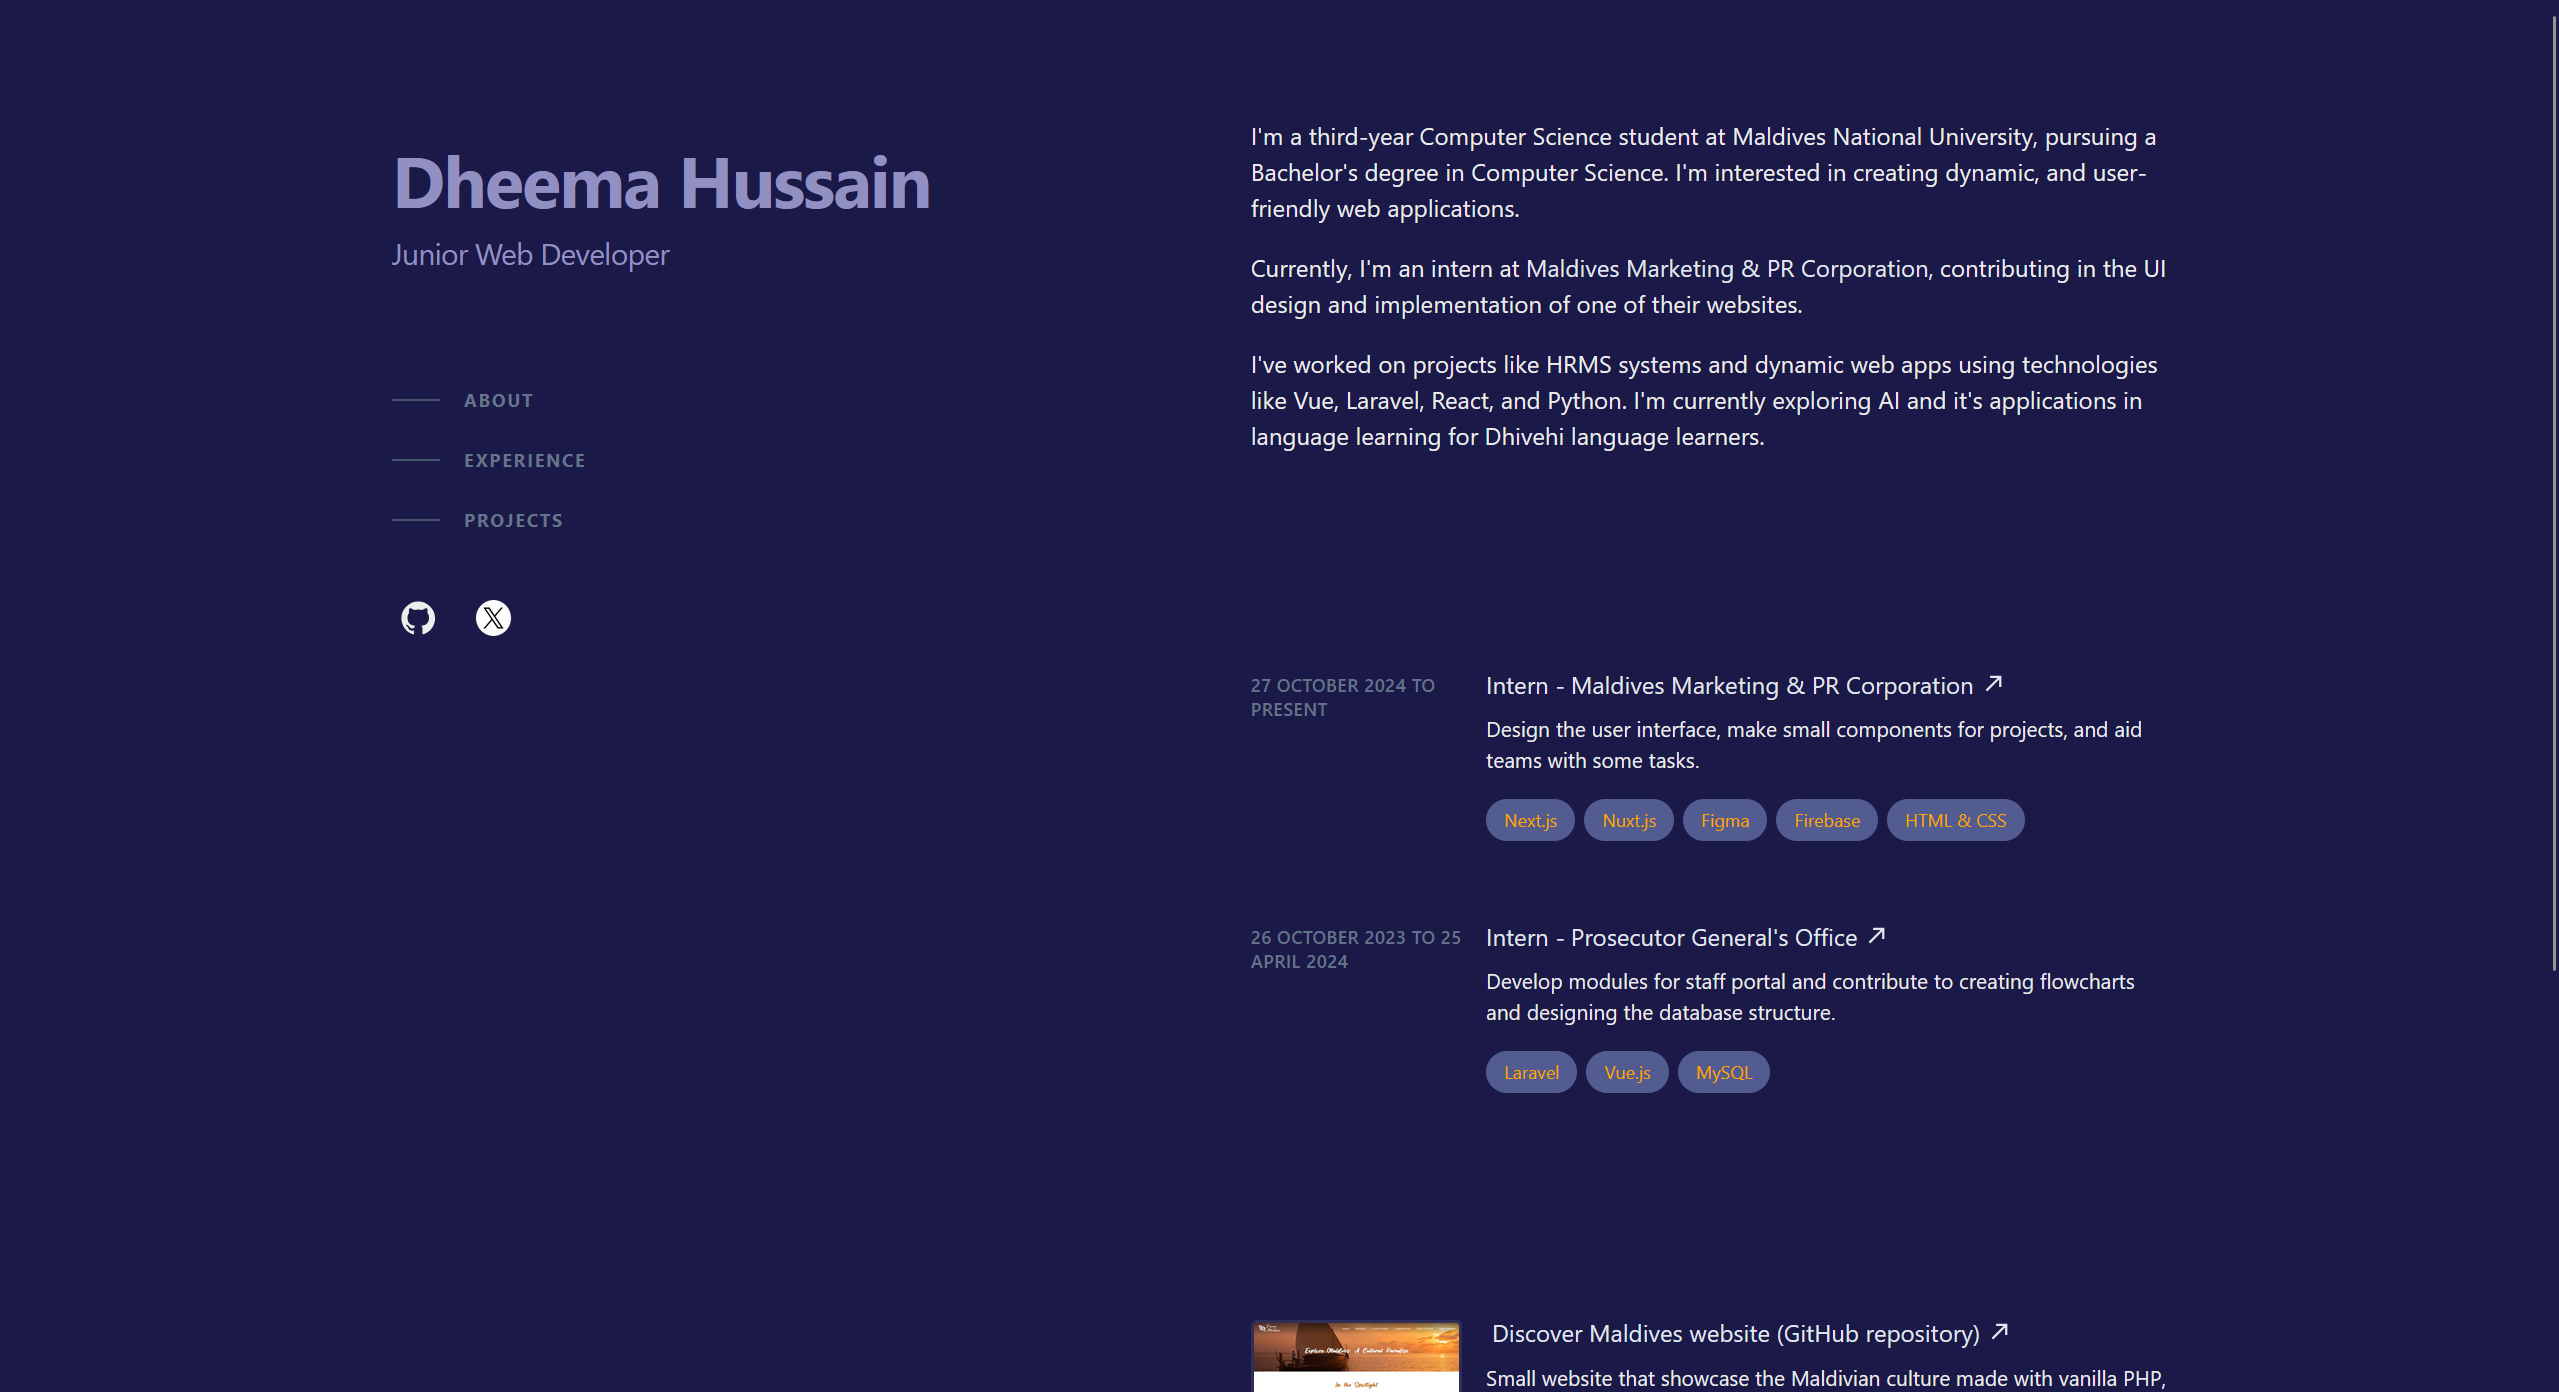
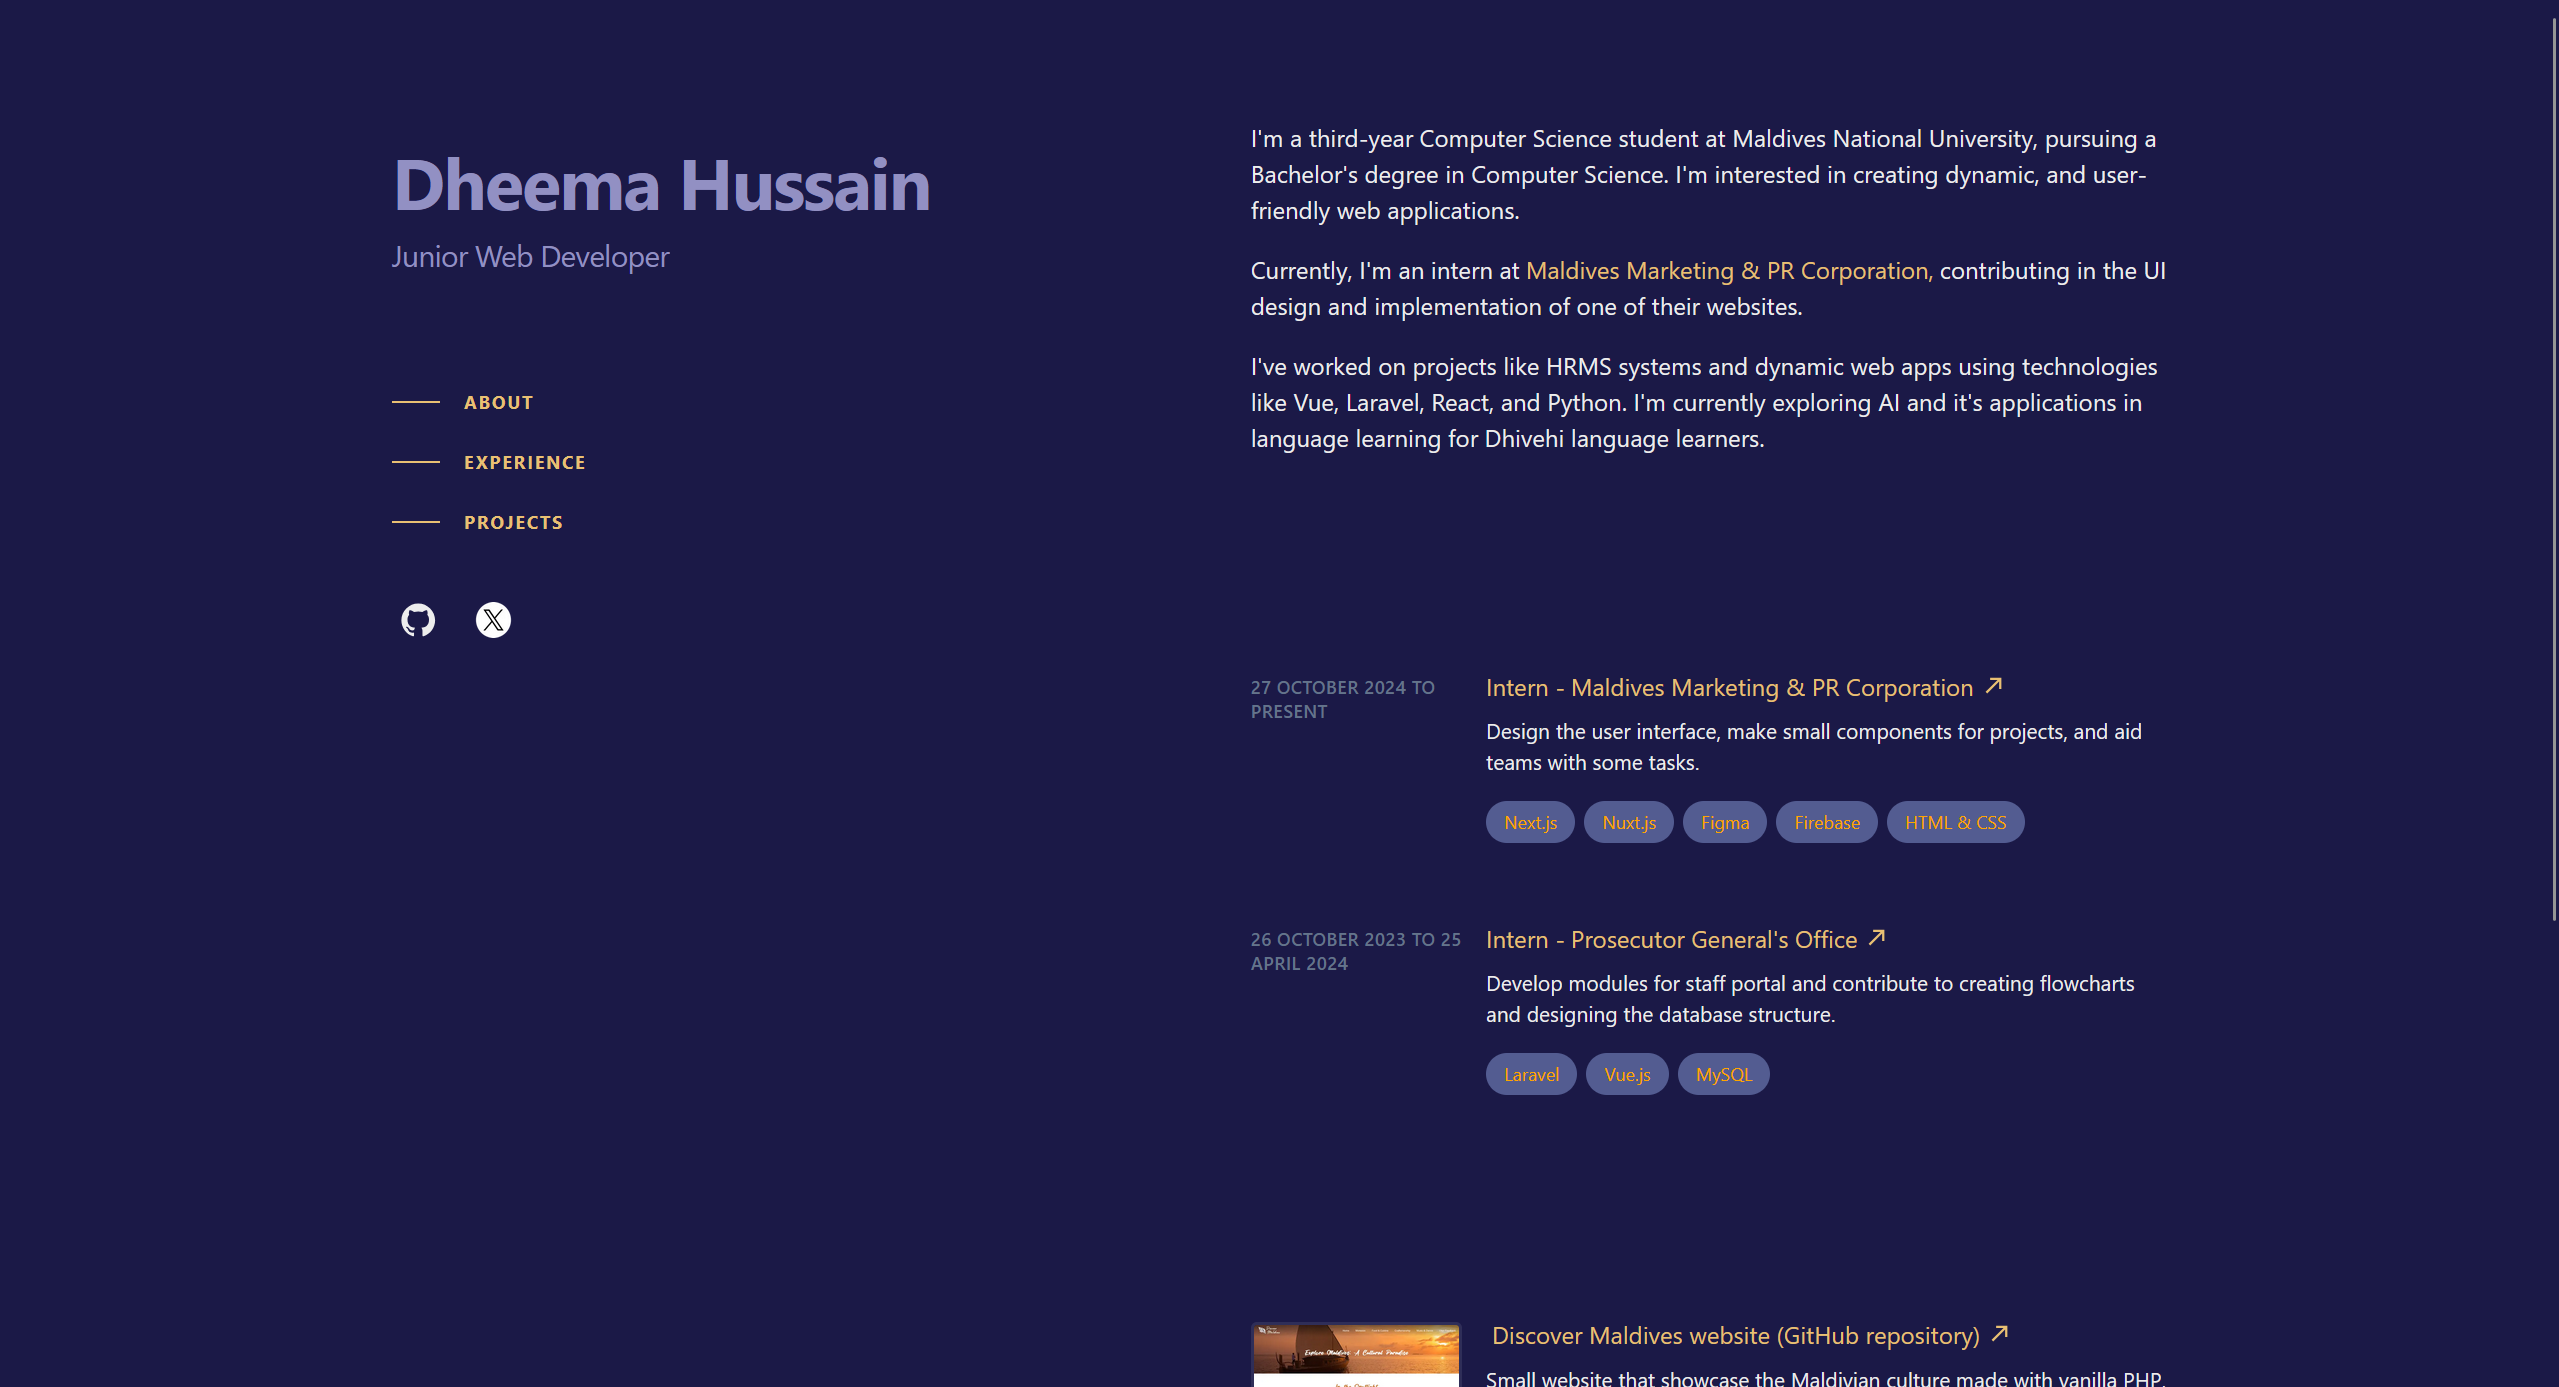
edit css

diff --git a/src/app/components/Main.tsx b/src/app/components/Main.tsx
@@ -16,7 +16,7 @@ const Main = () => {
                     </p>
                     <p className='mb-4'>
                         Currently, I&apos;m an intern at
-                        <a className='font-medium text-slate-200 hover:text-[#FFA500] focus-visible:text-[#FFA500] ml-1 mr-1' href="https://corporate.visitmaldives.com/" target='_blank' rel='noreferrer noopener'>
+                        <a className='font-medium text-[#e9c073] hover:text-[#FFA500] focus-visible:text-[#FFA500] ml-1 mr-1' href="https://corporate.visitmaldives.com/" target='_blank' rel='noreferrer noopener'>
                             Maldives Marketing & PR Corporation,
                         </a>
                         contributing in the UI design and implementation of one of their websites.
@@ -37,7 +37,7 @@ const Main = () => {
                             <header className='z-10 mb-2 mt-1 text-xs font-semibold uppercase tracking-wide text-slate-500 sm:col-span-2' aria-label='2024 to present'> 27 October 2024 to Present</header>
                             <div className='z-10 sm:col-span-6'>
                                 <h3 className='font-medium leading-snug text-slate-200'>
-                                    <a className='inline-flex items-center font-medium leading-tight text-slate-200 hover:text-[#FFA500] focus-visible:text-[#FFA500]  group/link text-base' href="https://corporate.visitmaldives.com/" target='_blank' rel='noreferrer noopener' aria-label='Intern, MMPRC'>
+                                    <a className='inline-flex items-center font-medium leading-tight text-[#e9c073] hover:text-[#FFA500] focus-visible:text-[#FFA500]  group/link text-base' href="https://corporate.visitmaldives.com/" target='_blank' rel='noreferrer noopener' aria-label='Intern, MMPRC'>
                                         Intern -
                                         <span className="ml-1">Maldives Marketing & PR Corporation</span>
                                         <Icon path={mdiArrowTopRight} size={0.75} className='ml-1' />
@@ -82,7 +82,7 @@ const Main = () => {
                             <header className='z-10 mb-2 mt-1 text-xs font-semibold uppercase tracking-wide text-slate-500 sm:col-span-2' aria-label='2024 to present'> 26 October 2023 to 25 April 2024</header>
                             <div className='z-10 sm:col-span-6'>
                                 <h3 className='font-medium leading-snug text-slate-200'>
-                                    <a className='inline-flex items-center font-medium leading-tight text-slate-200 hover:text-[#FFA500] focus-visible:text-[#FFA500]  group/link text-base' href="https://pgoffice.gov.mv/" target='_blank' rel='noreferrer noopener' aria-label='Intern, Prosecutor Generals Office'>
+                                    <a className='inline-flex items-center font-medium leading-tight text-[#e9c073] hover:text-[#FFA500] focus-visible:text-[#FFA500]  group/link text-base' href="https://pgoffice.gov.mv/" target='_blank' rel='noreferrer noopener' aria-label='Intern, Prosecutor Generals Office'>
                                         Intern -
                                         <span className="ml-1">Prosecutor General&apos;s Office</span>
                                         <Icon path={mdiArrowTopRight} size={0.75} className='ml-1' />
@@ -120,7 +120,7 @@ const Main = () => {
                     </li> */}
                 </ol>
             </section>
-            <section id='projects' className='mb-8 scroll-mt-16 md:mb-24 lg:mb-36 lg:scroll-mt-24' aria-label='Selected projects'>
+            <section id='projects' className='mb-8 scroll-mt-16 md:mb-24 lg:mb-24 lg:scroll-mt-24' aria-label='Selected projects'>
                 <div className='sticky top-0 z-20 -mx-6 mb-4 w-screen bg-[#1b1947] px-6 py-5 backdrop-blur md:-mx-12 md:px-12 lg:sr-only lg:relative lg:top-auto lg:mx-auto lg:w-full lg:px-0 lg:py-0 lg:opacity-0'>
                     <h2 className='text-sm font-bold uppercase tracking-widest text-slate-200 lg:sr-only'>Projects</h2>
                 </div>
@@ -130,7 +130,7 @@ const Main = () => {
                             <div className='absolute -inset-x-4 -inset-y-4 z-0 hidden rounded-md transition motion-reduce:transition-none lg:-inset-x-6 lg:block lg:group-hover:bg-slate-800/50 lg:group-hover:shadow-[inset_0_1px_0_0_rgba(148,163,184,0.1)] lg:group-hover:drop-shadow-lg'></div>
                             <div className='z-10 sm:order-2 sm:col-span-6'>
                                 <h3>
-                                    <a className='inline-flex items-center font-medium leading-tight text-slate-200 hover:text-[#FFA500] focus-visible:text-[#FFA500]  group/link text-base' href="https://github.com/dhymaaaa/Discover-Maldives" target='_blank' rel='noreferrer noopener' aria-label='Discover Maldives website'>
+                                    <a className='inline-flex items-center font-medium leading-tight text-[#e9c073] hover:text-[#FFA500] focus-visible:text-[#FFA500]  group/link text-base' href="https://github.com/dhymaaaa/Discover-Maldives" target='_blank' rel='noreferrer noopener' aria-label='Discover Maldives website'>
                                         <span className="ml-1">Discover Maldives website (GitHub repository)</span>
                                         <Icon path={mdiArrowTopRight} size={0.75} className='ml-1' />
                                     </a>
@@ -166,7 +166,7 @@ const Main = () => {
                             <div className='absolute -inset-x-4 -inset-y-4 z-0 hidden rounded-md transition motion-reduce:transition-none lg:-inset-x-6 lg:block lg:group-hover:bg-slate-800/50 lg:group-hover:shadow-[inset_0_1px_0_0_rgba(148,163,184,0.1)] lg:group-hover:drop-shadow-lg'></div>
                             <div className='z-10 sm:order-2 sm:col-span-6'>
                                 <h3>
-                                    <a className='inline-flex items-center font-medium leading-tight text-slate-200 hover:text-[#FFA500] focus-visible:text-[#FFA500]  group/link text-base' href="https://github.com/dhymaaaa/codefolio" target='_blank' rel='noreferrer noopener' aria-label='Discover Maldives website'>
+                                    <a className='inline-flex items-center font-medium leading-tight text-[#e9c073] hover:text-[#FFA500] focus-visible:text-[#FFA500]  group/link text-base' href="https://github.com/dhymaaaa/codefolio" target='_blank' rel='noreferrer noopener' aria-label='Discover Maldives website'>
                                         <span className="ml-1">My coding portfolio (Codefolio)</span>
                                         <Icon path={mdiArrowTopRight} size={0.75} className='ml-1' />
                                     </a>
@@ -192,6 +192,14 @@ const Main = () => {
                     </li>
                 </ul>
             </section>
+            <footer className='max-w-md pb-16 mb-25 text-sm text-slate-500 sm:pb-0'>
+                <p>Code done by me in Visual Studio Code using
+                    <a className='font-light text-[#e9c073] hover:text-[#FFA500] focus-visible:text-[#FFA500] ml-1 mr-1' href="https://brittanychiang.com/" target='_blank' rel='noreferrer noopener'>
+                        Brittany Chiang&apos;s portfolio UI
+                    </a>
+                    as a reference.
+                </p>
+            </footer>
         </main>
     )
 }

diff --git a/src/app/components/Header.tsx b/src/app/components/Header.tsx
@@ -2,8 +2,6 @@ import React from 'react'
 import Icon from '@mdi/react';
 import { mdiGithub } from '@mdi/js';
 import Image from 'next/image';
-// import { motion } from 'framer-motion';
-// import { TypeAnimation } from 'react-type-animation';
 
 
 const Header = () => {
@@ -11,47 +9,26 @@ const Header = () => {
         <header className='lg:sticky lg:top-0 lg:flex lg:max-h-screen lg:w-[48%] lg:flex-col lg:justify-between lg:py-24'>
             <div className='lg:flex lg:flex-col'>
                 <div>
-                    {/* <motion.div initial={{opacity: 0}} animate={{opacity: 1}} transition={{duration: 0.5}}>
-                        <h1 className='text-[#9290C3] text-4xl font-bold tracking-tight sm:text-5xl'>
-                            <span>
-                                Hello, I&apos;
-                            </span>
-                            <br />
-                            <TypeAnimation
-                                sequence={[
-                                    "Dheema",
-                                    1000,
-                                    "Web Developer",
-                                    1000,
-                                    "Student",
-                                    1000,
-                                ]}
-                                wrapper='span'
-                                speed={50}
-                                repeat={Infinity}
-                            />
-                        </h1>
-                    </motion.div> */}
                     <h1 className='text-[#9290C3] text-4xl font-bold tracking-tight sm:text-5xl'>Dheema Hussain</h1>
                     <h2 className='mt-3 text-lg font-medium tracking-tight text-[#9290C3] sm:text-xl'>Junior Web Developer</h2>
                     <nav className='nav hidden lg:block' aria-label='In-page jump links'>
                         <ul className='mt-16 w-max'>
                             <li>
                                 <a className='group flex items-center py-3' href="#about">
-                                    <span className='nav-indicator mr-4 h-px w-8 bg-slate-600 transition-all group-hover:w-16 group-hover:bg-slate-200 group-focus-visible:w-16 group-focus-visible:bg-slate-200 motion-reduce:transition-noneransition-all'></span>
-                                    <span className='nav-text text-xs font-bold uppercase tracking-widest text-slate-500 group-hover:text-slate-200 group-focus-visible:text-slate-200'>About</span>
+                                    <span className='nav-indicator mr-4 h-px w-8 bg-[#e9c073] transition-all group-hover:w-16 group-hover:bg-[#FFA500] group-focus-visible:w-16 group-focus-visible:bg-[#FFA500] motion-reduce:transition-noneransition-all'></span>
+                                    <span className='nav-text text-xs font-bold uppercase tracking-widest text-[#e9c073] group-hover:text-[#FFA500] group-focus-visible:text-[#FFA500]'>About</span>
                                 </a>
                             </li>
                             <li>
                                 <a className='group flex items-center py-3' href="#experience">
-                                    <span className='nav-indicator mr-4 h-px w-8 bg-slate-600 transition-all group-hover:w-16 group-hover:bg-slate-200 group-focus-visible:w-16 group-focus-visible:bg-slate-200 motion-reduce:transition-noneransition-all'></span>
-                                    <span className='nav-text text-xs font-bold uppercase tracking-widest text-slate-500 group-hover:text-slate-200 group-focus-visible:text-slate-200'>Experience</span>
+                                    <span className='nav-indicator mr-4 h-px w-8 bg-[#e9c073] transition-all group-hover:w-16 group-hover:bg-[#FFA500] group-focus-visible:w-16 group-focus-visible:bg-[#FFA500] motion-reduce:transition-noneransition-all'></span>
+                                    <span className='nav-text text-xs font-bold uppercase tracking-widest text-[#e9c073] group-hover:text-[#FFA500] group-focus-visible:text-[#FFA500]'>Experience</span>
                                 </a>
                             </li>
                             <li>
                                 <a className='group flex items-center py-3' href="#projects">
-                                    <span className='nav-indicator mr-4 h-px w-8 bg-slate-600 transition-all group-hover:w-16 group-hover:bg-slate-200 group-focus-visible:w-16 group-focus-visible:bg-slate-200 motion-reduce:transition-noneransition-all'></span>
-                                    <span className='nav-text text-xs font-bold uppercase tracking-widest text-slate-500 group-hover:text-slate-200 group-focus-visible:text-slate-200'>Projects</span>
+                                    <span className='nav-indicator mr-4 h-px w-8 bg-[#e9c073] transition-all group-hover:w-16 group-hover:bg-[#FFA500] group-focus-visible:w-16 group-focus-visible:bg-[#FFA500] motion-reduce:transition-noneransition-all'></span>
+                                    <span className='nav-text text-xs font-bold uppercase tracking-widest text-[#e9c073] group-hover:text-[#FFA500] group-focus-visible:text-[#FFA500]'>Projects</span>
                                 </a>
                             </li>
                         </ul>

diff --git a/src/app/page.tsx b/src/app/page.tsx
@@ -5,7 +5,7 @@ export default function Home() {
   return (
     <div className="__variable_20b187 group/spotlight relative">
       <div className="mx-auto min-h-screen max-w-screen-xl px-6 py-12 font-sans md:px-12 md:py-16 lg:py-0">
-        <div className="lg:flex lg:justify-between lg:gap-2">
+        <div className="lg:flex lg:justify-between lg:gap-2 lg:pb-20">
           <Header />
           <Main />
         </div>
